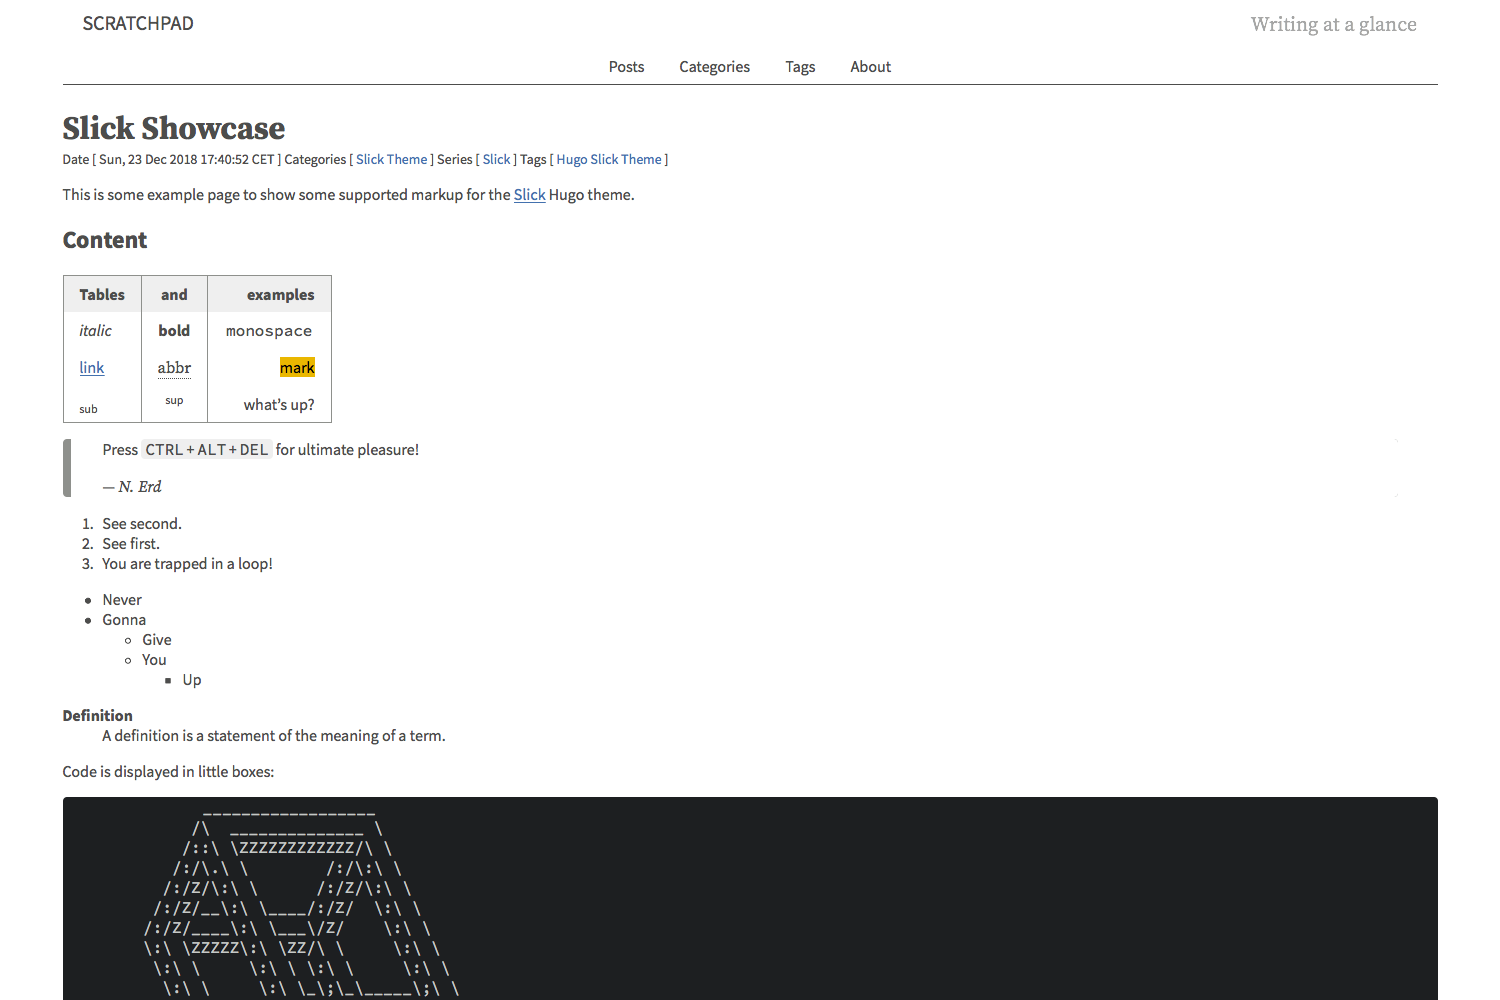
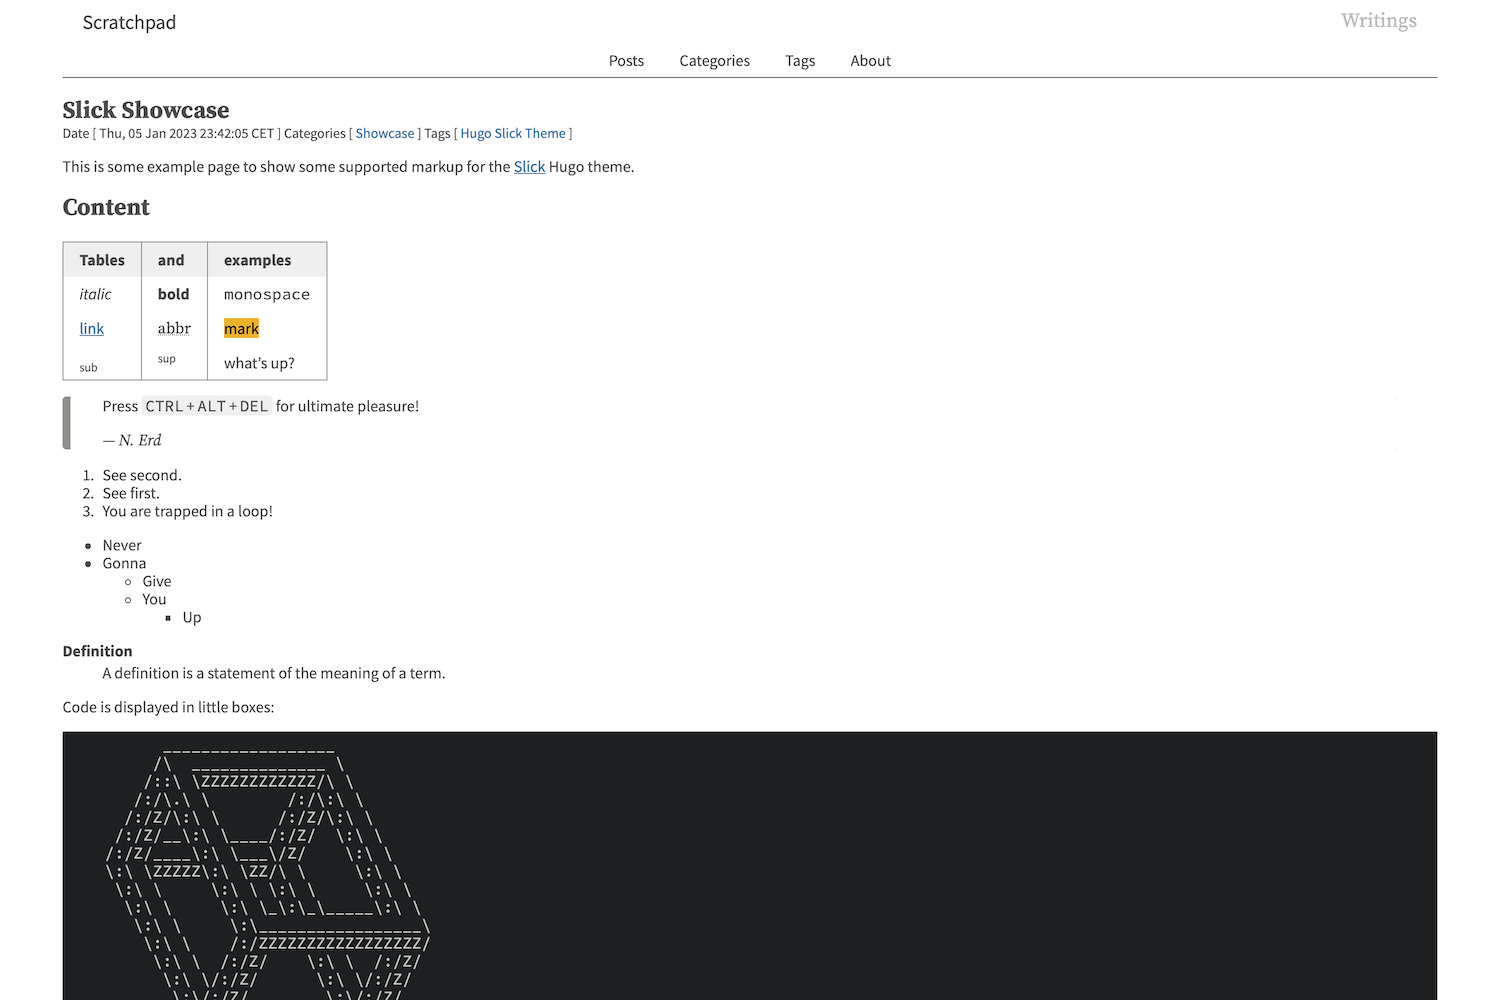
Renew screenshot images

diff --git a/_sites/example/content/slick_showcase.md b/_sites/example/content/slick_showcase.md
@@ -2,7 +2,7 @@
 title: Slick Showcase
 slug: slick-showcase
 description: Showcase of supported markup for Slick theme
-date: 2018-12-23T17:42:23+01:00
+date: 2023-01-05T23:42:05+01:00
 draft: false
 menu:
   main:
@@ -11,9 +11,9 @@ menu:
 categories:
 - Showcase
 tags:
-- hugo
-- slick
-- themes
+- Hugo
+- Slick
+- Theme
 series:
 - Slick
 showmeta: true

diff --git a/CHANGELOG.md b/CHANGELOG.md
@@ -13,6 +13,7 @@ and this project adheres to
 
 - Provide some global `centered` css helper class to be used in custom
   partials and/or shortcodes.
+- Newer screenshots.
 
 ### Changed
 
